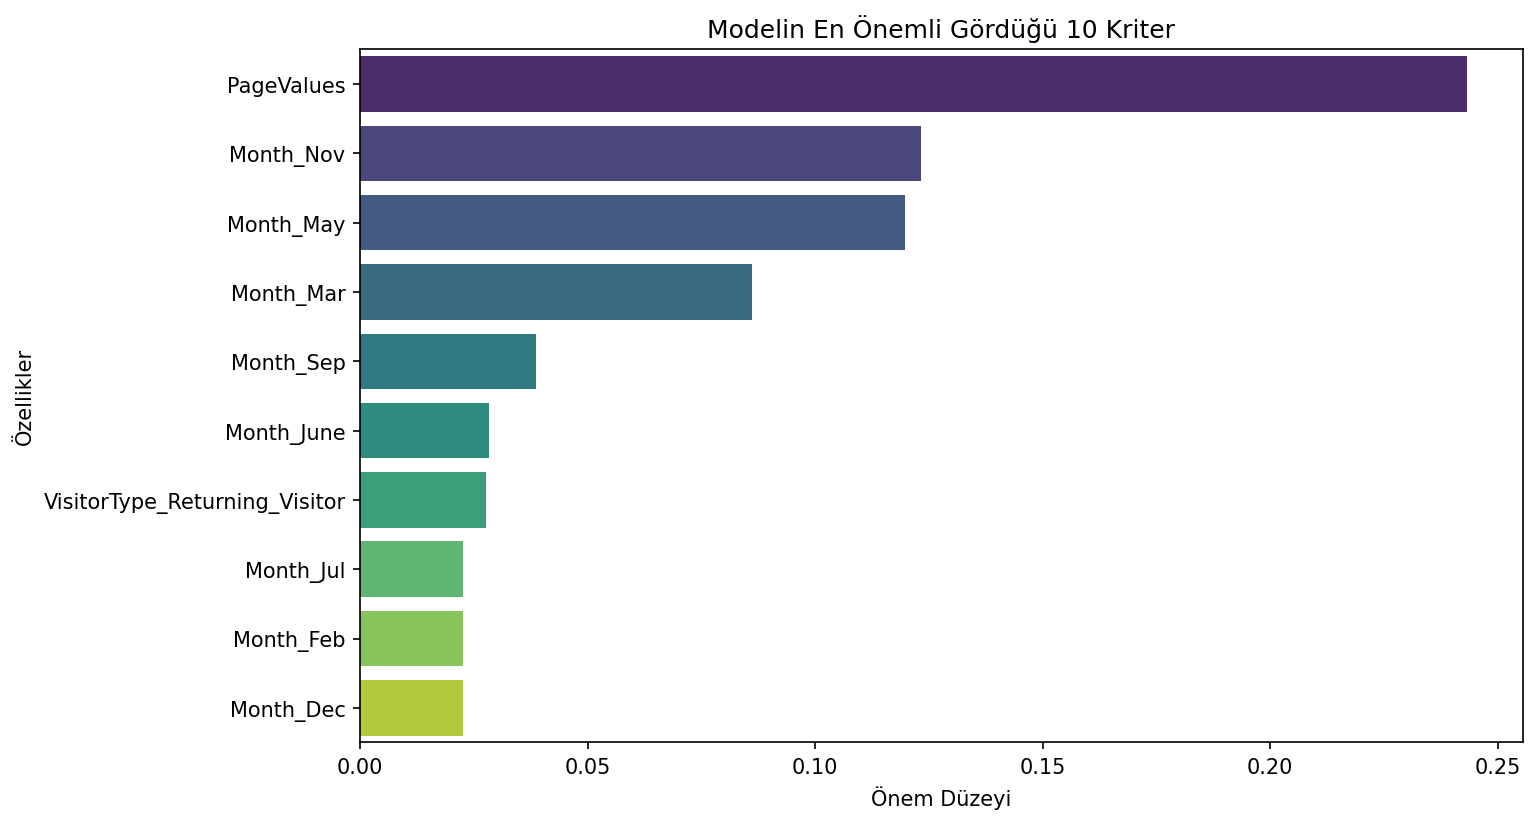
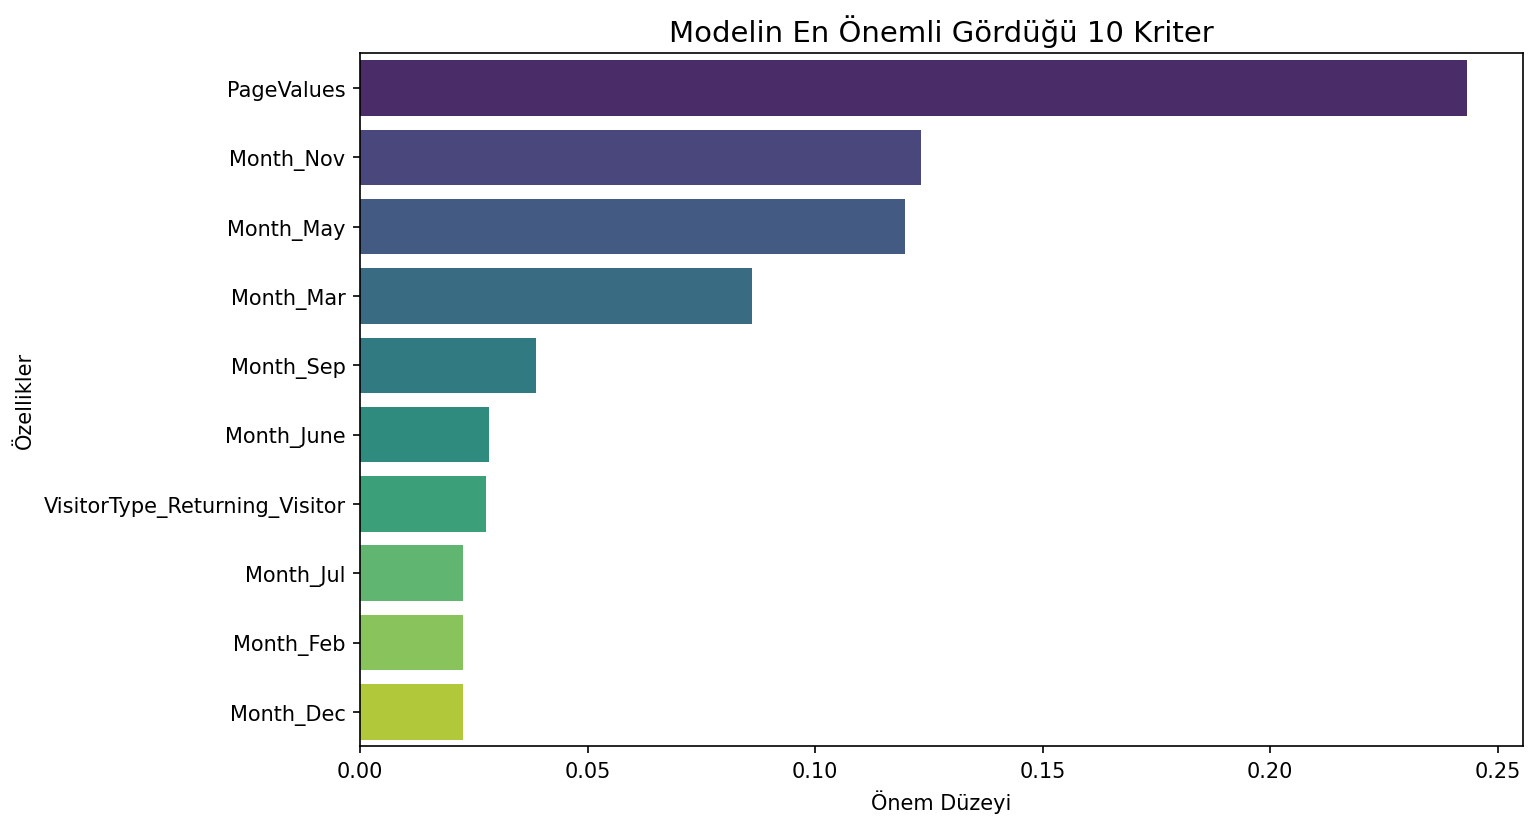
oldu heralde..

diff --git a/app.py b/app.py
@@ -1,83 +1,105 @@
 import streamlit as st
-import joblib
 import pandas as pd
-import matplotlib.pyplot as plt
-import seaborn as sns
+import joblib
 
-st.set_page_config(page_title="Proje Raporu", page_icon="🛒", layout="wide")
+st.set_page_config(page_title="Sepeti Terk Etme Tahmini", page_icon="🛒", layout="wide")
 
-@st.cache_data
-def load_results():
-    """Karşılaştırma sonuçlarını yükler."""
+@st.cache_resource
+def load_resources():
+    """Model ve ilgili dosyaları yükler."""
     try:
-        return joblib.load('day-2/cart_abandonment_results.pkl')
+        model = joblib.load('cart_abandonment_model.pkl')
+        model_columns = joblib.load('cart_abandonment_columns.pkl')
+        results = joblib.load('cart_abandonment_results.pkl')
+        return model, model_columns, results
     except FileNotFoundError:
-        return None
+        return None, None, None
 
-results = load_results()
+model, model_columns, results = load_resources()
 
 st.title("🛒 Alışveriş Sepeti Terk Etme Tahmini Projesi")
-st.markdown("Bu rapor, bir e-ticaret sitesi için geliştirilen müşteri terk etme tahmin modelinin detaylarını, geliştirme sürecini ve sonuçlarını içermektedir.")
+st.markdown("Bu interaktif uygulama, bir online ziyaretçinin davranışlarını analiz ederek satın alma işlemini tamamlayıp tamamlamayacağını tahmin eder.")
 
-tab1, tab2, tab3 = st.tabs(["🎯 **Proje Özeti**", "📊 **Model Performansı**", "🧠 **Teknik Detaylar**"])
+# --- Hata Kontrolü 
+if not all([model, model_columns, results]):
+    st.error("Model dosyaları bulunamadı. Lütfen önce `train_model.py`'yi çalıştırıp dosyaları GitHub'a gönderdiğinizden emin olun.")
+    st.stop()
+
+tab1, tab2, tab3 = st.tabs(["🎯 **Proje Raporu**", "🧠 **Tahmin Aracı**", "🔧 **Teknik Detaylar**"])
 
 with tab1:
     st.header("Projenin Amacı ve İş Değeri")
-    st.image("https://i.imgur.com/v2d62pT.png", caption="Müşteri yolculuğu ve terk etme noktası")
+    st.image("https://i.imgur.com/6Q5Z2Xk.png", caption="Müşteri yolculuğu ve terk etme noktası")
     st.write("""
     Bu projenin temel amacı, bir online ziyaretçinin davranışlarını analiz ederek satın alma işlemini tamamlayıp tamamlamayacağını önceden tahmin etmektir.
-    
-    **Bu Neden Önemli?**
-    - **Proaktif Müdahale:** Sepeti terk etme olasılığı yüksek olan müşterilere, siteyi terk etmeden önce özel indirimler veya yardım teklifleri sunulabilir.
-    - **Pazarlama Optimizasyonu:** Hangi tür ziyaretçilerin daha çok satın alma yaptığını anlayarak, pazarlama kampanyaları daha verimli bir şekilde hedeflenebilir.
+    Bu, e-ticaret şirketlerinin potansiyel satış kayıplarını önceden tespit ederek özel indirimler veya hatırlatmalarla bu müşterileri geri kazanmalarına yardımcı olabilir.
     """)
-    st.info("Modeli canlı olarak test etmek için soldaki menüden **'🧠 Tahmin Araci'** sayfasına geçebilirsiniz.")
 
 with tab2:
     st.header("Model Performansı: Baseline vs. Finetuned")
+    st.write("""
+    İlk 'Baseline' model, satın alacak müşterileri yakalamada zayıf kaldı. Bu sorunu çözmek için, dengesiz veri setine özel bir hiperparametre (`scale_pos_weight`) ile model **Finetune** edildi ve müşteri yakalama oranı (Recall) **%57'den %68'e** yükseltildi.
+    """)
     
-    if results:
-        baseline = results['baseline']
-        tuned = results['tuned']
-        
-        st.write("""
-        İlk denenen 'Baseline' model, satın alacak müşterileri yakalamada zayıf kaldı. Bu sorunu çözmek için, dengesiz veri setine özel bir hiperparametre (`scale_pos_weight`) ile model **Finetune** edildi ve müşteri yakalama oranı (Recall) **%57'den %68'e** yükseltildi.
-        """)
-        
-        col1, col2 = st.columns(2)
-        with col1:
-            st.subheader("Önce: Baseline Model")
-            st.image("baseline_cm.png", use_container_width=True)
-            st.caption(f"""
-            **Grafik Yorumu:** Bu model, satın alacak olan **{baseline['cm'][1][0] + baseline['cm'][1][1]}** müşteriden **{baseline['cm'][1][0]}** tanesini kaçırdı. 
-            Bu, potansiyel satışların önemli bir kısmını gözden kaçırmak demektir.
-            """)
+    col1, col2 = st.columns(2)
+    with col1:
+        st.subheader("Önce: Baseline Model")
+        st.image("baseline_cm.png", use_container_width=True)
+        st.caption(f"Bu model, satın alacak olan **{results['baseline']['cm'][1][0] + results['baseline']['cm'][1][1]}** müşteriden **{results['baseline']['cm'][1][0]}** tanesini kaçırdı.")
 
-        with col2:
-            st.subheader("Sonra: Finetuned Model")
-            st.image("tuned_cm.png", use_container_width=True)
-            st.caption(f"""
-            **Grafik Yorumu:** Finetuning sonrası, kaçırılan müşteri sayısı **{baseline['cm'][1][0]}'dan {tuned['cm'][1][0]}'a** düştü. 
-            Model artık daha fazla potansiyel alıcıyı doğru tespit edebiliyor.
-            """)
-
-    else:
-        st.error("Karşılaştırma sonuç dosyası bulunamadı. Lütfen önce `train_model.py`'yi çalıştırıp dosyaları GitHub'a gönderdiğinizden emin olun.")
+    with col2:
+        st.subheader("Sonra: Finetuned Model")
+        st.image("tuned_cm.png", use_container_width=True)
+        st.caption(f"Finetuning sonrası, kaçırılan müşteri sayısı **{results['tuned']['cm'][1][0]}'a** düştü. Model artık daha fazla potansiyel alıcıyı doğru tespit edebiliyor.")
 
 with tab3:
-    st.header("Teknik Detaylar ve Öğrenimler")
-    
-    with st.expander("🤔 Neden Sadece 'Accuracy' (Doğruluk) Yeterli Değil? - Tembel Doktor Analojisi"):
-        st.write("""
-        Bu projede olduğu gibi **dengesiz veri setlerinde** (yani bir sınıfın diğerinden çok daha fazla olduğu durumlarda), sadece doğruluk oranına bakmak yanıltıcı olabilir. 
-        
-        **Örnek:** 1000 hastadan sadece 1'inin hasta olduğu nadir bir hastalığı düşünelim. Hiçbir test yapmadan herkese "Sen hasta değilsin" diyen tembel bir doktor, **%99.9 doğruluk oranına** sahip olur. Ancak asıl görevi olan o 1 hastayı bulma işinde **%100 başarısızdır.**
-        
-        Bizim projemizde de müşterilerin sadece %15'i satın alma yapıyor. Bu yüzden, modelimizin ne kadar iyi olduğunu anlamak için **Precision** (keskinlik) ve özellikle **Recall** (müşteri yakalama oranı) gibi daha derin metriklere odaklandık. Bu yaklaşım, veri bilimi projelerinde standart bir en iyi pratiktir.
-        """)
-
-    st.subheader("Modelin Karar Kriterleri")
+    st.header("Modelin Karar Kriterleri")
     st.write("Model, bir müşterinin sepeti terk edip etmeyeceğine karar verirken bazı özelliklere diğerlerinden daha fazla önem verir. Aşağıda modelin en önemli bulduğu 10 kriteri görebilirsiniz:")
     st.image("feature_importance.png", use_container_width=True)
     st.caption("Grafikten de anlaşıldığı üzere, bir kullanıcının 'Sayfa Değeri' (PageValues) ve siteden 'Çıkış Oranı' (ExitRates), satın alma niyetini belirlemede en güçlü sinyallerdir.")
 
+st.markdown("---")
+st.header("🧠 Canlı Tahmin Aracı")
+st.write("Aşağıdaki slider ve seçenekleri değiştirerek farklı ziyaretçi profilleri için tahminler yapabilirsiniz.")
+
+with st.form(key='prediction_form'):
+    col1, col2, col3 = st.columns(3)
+    with col1:
+        product_related = st.slider('Gezilen Ürün Sayfası', 0, 700, 30)
+    with col2:
+        exit_rates = st.slider('Çıkış Oranı', 0.0, 0.2, 0.04, format="%.4f")
+    with col3:
+        page_values = st.slider('Sayfa Değeri', 0.0, 362.0, 6.0, format="%.2f")
+    
+    col4, col5 = st.columns(2)
+    with col4:
+        month = st.selectbox('Ay', ['Feb', 'Mar', 'May', 'June', 'Jul', 'Aug', 'Sep', 'Oct', 'Nov', 'Dec'])
+    with col5:
+        visitor_type = st.selectbox('Ziyaretçi Tipi', ['Returning_Visitor', 'New_Visitor', 'Other'])
+    
+    submit_button = st.form_submit_button(label='Tahmin Yap')
+
+if submit_button:
+    input_dict = {col: 0 for col in model_columns}
+    input_dict['ProductRelated'] = product_related
+    input_dict['ExitRates'] = exit_rates
+    input_dict['PageValues'] = page_values
+    
+    month_col = 'Month_' + month
+    if month_col in input_dict:
+        input_dict[month_col] = 1
+    
+    visitor_col = 'VisitorType_' + visitor_type
+    if visitor_col in input_dict:
+        input_dict[visitor_col] = 1
+            
+    input_df = pd.DataFrame([input_dict])[model_columns]
+    
+    prediction = model.predict(input_df)
+    prediction_proba = model.predict_proba(input_df)
+
+    st.subheader('🔮 Tahmin Sonucu')
+    if prediction[0] == 1:
+        st.success(f"Bu ziyaretçinin SATIN ALMA olasılığı yüksek! (Olasılık: {prediction_proba[0][1]:.2%})")
+    else:
+        st.error(f"Bu ziyaretçinin SEPETİ TERK ETME olasılığı yüksek. (Satın Almama Olasılığı: {prediction_proba[0][0]:.2%})")

diff --git a/train_model.py b/train_model.py
@@ -10,10 +10,11 @@ import seaborn as sns
 warnings.filterwarnings("ignore", category=UserWarning)
 
 def create_confusion_matrix_plot(cm, title, filename):
+    """Creates and saves a confusion matrix plot."""
     plt.figure(figsize=(6, 4))
     sns.heatmap(cm, annot=True, fmt='d', cmap='Blues', cbar=False,
                 xticklabels=['Terk Etti', 'Satın Aldı'], yticklabels=['Terk Etti', 'Satın Aldı'])
-    plt.title(title)
+    plt.title(title, fontsize=14)
     plt.ylabel('Gerçek Durum')
     plt.xlabel('Tahmin Edilen Durum')
     plt.savefig(filename, dpi=150, bbox_inches='tight')
@@ -21,10 +22,11 @@ def create_confusion_matrix_plot(cm, title, filename):
     print(f"✅ Plot saved: {filename}")
 
 def create_feature_importance_plot(model, columns, filename):
+    """Creates and saves a feature importance plot."""
     feature_imp = pd.DataFrame(sorted(zip(model.feature_importances_, columns)), columns=['Value','Feature'])
     plt.figure(figsize=(10, 6))
     sns.barplot(x="Value", y="Feature", data=feature_imp.sort_values(by="Value", ascending=False).head(10), palette='viridis')
-    plt.title('Modelin En Önemli Gördüğü 10 Kriter')
+    plt.title('Modelin En Önemli Gördüğü 10 Kriter', fontsize=14)
     plt.xlabel('Önem Düzeyi')
     plt.ylabel('Özellikler')
     plt.savefig(filename, dpi=150, bbox_inches='tight')
@@ -32,10 +34,13 @@ def create_feature_importance_plot(model, columns, filename):
     print(f"✅ Plot saved: {filename}")
 
 def run_training_pipeline():
-    print("1/4 - Loading data...")
+    """Main function to run the entire training and artifact generation process."""
+    print("--- Training Pipeline Started ---")
+    
+
     df = pd.read_csv("online_shoppers_intention.csv")
     
-    print("2/4 - Preprocessing data...")
+    # 2. Preprocess Data
     df['Weekend'] = df['Weekend'].astype(int)
     df['Revenue'] = df['Revenue'].astype(int)
     df_processed = pd.get_dummies(df, columns=['Month', 'VisitorType'], drop_first=True)
@@ -44,7 +49,7 @@ def run_training_pipeline():
     y = df_processed['Revenue']
     X_train, X_test, y_train, y_test = train_test_split(X, y, test_size=0.2, random_state=42, stratify=y)
 
-    print("3/4 - Training and evaluating models...")
+ 
     baseline_model = XGBClassifier(random_state=42, use_label_encoder=False, eval_metric='logloss')
     baseline_model.fit(X_train, y_train)
     y_pred_base = baseline_model.predict(X_test)
@@ -66,12 +71,12 @@ def run_training_pipeline():
         'f1': f1_score(y_test, tuned_model.predict(X_test)), 'cm': tuned_cm
     }
 
-    print("4/4 - Saving artifacts...")
     comparison_results = {'baseline': baseline_results, 'tuned': tuned_results}
     joblib.dump(comparison_results, 'cart_abandonment_results.pkl')
     joblib.dump(tuned_model, 'cart_abandonment_model.pkl')
     joblib.dump(list(X.columns), 'cart_abandonment_columns.pkl')
-    print("✅ All artifacts saved successfully!")
+    
+    print("--- Training Pipeline Completed Successfully! ---")
 
 if __name__ == "__main__":
     run_training_pipeline()
